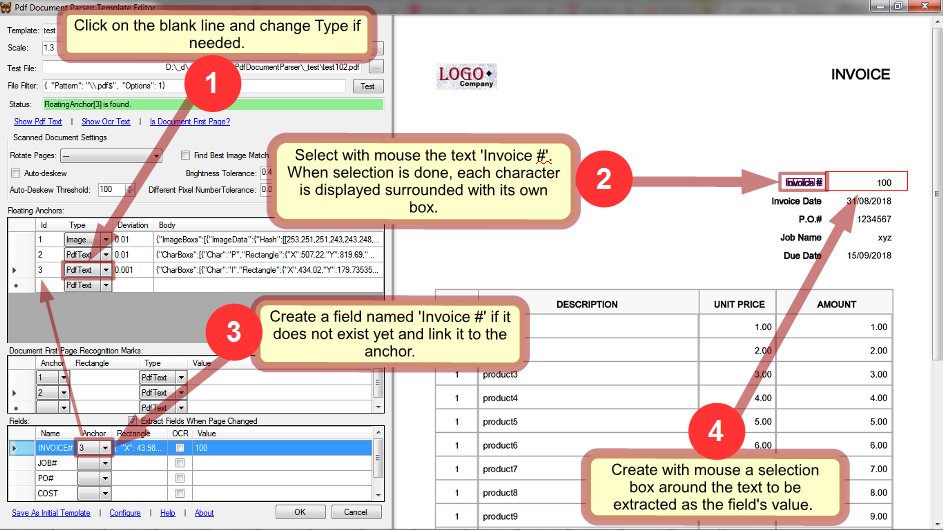
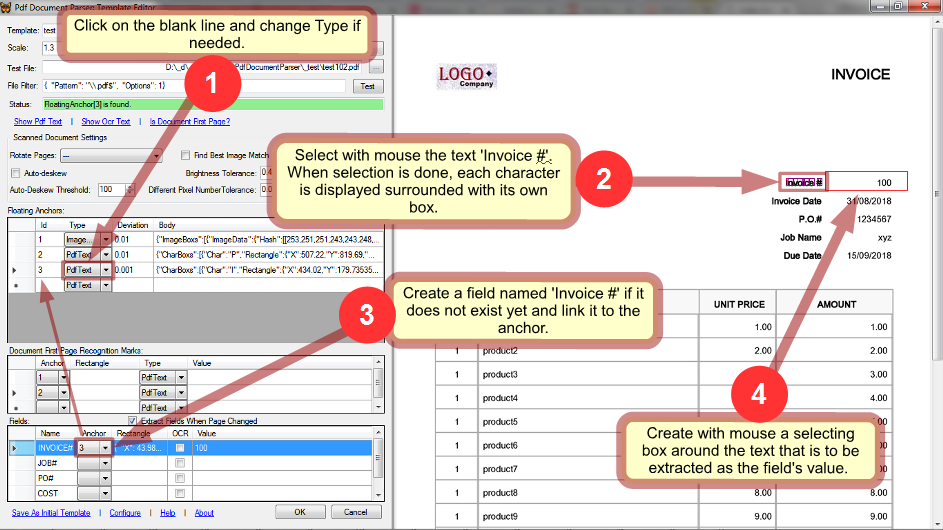
.

Changed region(s): [[0.123, 0.5132, 0.7073, 0.8453], [0.6151, 0.4226, 0.9533, 0.9962]]

diff --git a/help/help/tutorial/index.html b/help/help/tutorial/index.html
@@ -9,31 +9,31 @@
 <h1>Pdf Document Parser Tutorial: creating a parsing template</h1>
 <h2>1. Create a blank template</h2>
 <p>It can be created from scratch or copied from an existing one. Usually copying saves time because you can adapt existing settings instead of creating them. However, in this tutorial we'll see how to set up a template from scratch. So, let's remove all the anchors and marks if any. Assumed that in every template we need 4 fields INVOICE, JOB#, PO# and COST so we will not remove them.
-<p class='screenshot_title'>Open a test PDF file in the template editor and specify the template's name. As an example, we will parse a PDF consisting of 2 invoices.
+<p class='screenshot_title'>Open a test PDF file in the template editor and specify the template's name. As an example, we will parse a PDF consisting of 2 invoices:
 <img src='1.png'/>
 
 <h2>2. Create an invoice first page recognition marks</h2>
 <p>Any template needs at least one mark that will certainly identify type of document and distinguish it from the rest documents you may want to parse. Such a mark should be targeted to some fragment of a document that is unique to its type. Usually it is a logo of a company issued the document.
-<p class='screenshot_title'>To create such a mark, first we need to create an anchor that will capture the logo. Then we create a mark and link it to the anchor.
+<p class='screenshot_title'>To create such a mark, first we need to create an anchor that will capture the logo. Then we create a mark and link it to the anchor:
 <img src='2.png'/>
 <p>How do those anchor and mark work inside the parser? In every page Parser looks for the fragment defined by the anchor. Depending on its type it can be either PDF text, OCR'ed text, or image. Each of types is processed by its own very different way and so choosing the right type is crucial in successful and robust parsing. The logo in our example document is an image that is why we set anchor's type to ImageData. This means that Parser will look for the image we selected while creating the anchor. 
 <p>An anchor can be found anywhere on page. In general way, having an anchor found, Parser takes the selecting rectangle specified by a mark linked to this anchor and locates it relatively to the anchor's position in page. Then Parser compares a text surrounded by the rectangle with the text defined in the mark and when they are equal, the mark is considered found. 
 <p>But a mark does not obligatory have a selecting rectangle specified. In such a simpler case it is considered found just when its anchor found. It is the case in our example: Parser will look for the logo image and if found, it will choose this template for processing of the document.
-<br><br><p>Now, besides the first mark which is a must, a template usually needs one more mark that will check number of document page. It is necessary when parsing a multi-document PDF file. 
-<p class='screenshot_title'>So let's create a mark for the first page: when Parser finds it, all the previously found fields are recorded and reset.
+<br><br><p>Now, besides the first mark which is a must, a template usually needs one more mark that will check number of document page. It is necessary when parsing a multi-document PDF file: when Parser finds such a mark, all the previously found fields are recorded and reset.
+<p class='screenshot_title'>So let's create a first page recognition mark:
 <img src='3.png'/>
-<p>Now our template has 2 marks that can recognize the document and its first page. Sometimes more mark is required: for instance when we need to parse different type documents issued by the same company. In our example 2 marks are sufficient though. 
+<p>Our template has 2 marks that can recognize type and first page of document. Sometimes more mark is required: for instance when we need to parse different type documents issued by the same company. In our example 2 marks we created are sufficient though. 
 <p><span class='attention'>NOTE: </span>when you select a line in either table, Parser processes it on the current page and the result is displayed in the page viewer and in Status.
 
 <h2>3. Create fields</h2>
-<p class='screenshot_title'>Let's create fields. Click on the blank line and fill names if they are not preset. In the same way as above create anchors for the fields and link the fields to them.
+<p class='screenshot_title'>Let's create fields. Click on the blank line and fill names if they are not preset. In the same way as above create anchors for the fields and link the fields to them:
 <img src='4.png'/>
 <p>How does Parser process fields? The likeness between a field and a mark is that each has a selecting rectangle (well, a mark might not have but a field always does). And like with a mark, when a field's anchor is found, Parser locates the field's rectangle relatively to the anchor's position and extracts text surrounded by the rectangle. But further the difference between marks and fields comes out: while in a case of mark the captured text is compared with the mark's predefined text, in a case of field the captured text is recorded as a field value. 
 <p>And one more difference: while all the marks must be met on the same page, fields should not necessary do so. In every page Parser tries to capture all the fields and only the last captures are remembered and recorded when the end of PDF file or a new document is reached.
 <p><span class='attention'>NOTE: </span>the same anchor can be linked by multiple marks and fields.
 
 <h2>4. Walk though PDF and check how the template works on the rest pages</h2>
-<p>When all the fields are set, it's time to walk through the rest pages of the PDF file and see how the template we created works on them. 
+<p>When all the fields are set, it's time to walk through the rest pages of the PDF file and see how the template we created works on them.
 <p class='screenshot_title'>The page 2 is a new invoice and the marks in our template recognized it properly:
 <img src='5.png'/>
 <p class='screenshot_title'>The page 3 is an invoice continuation. On this page, Parser captured COST while remembering INVOCE, JOB# and PO# captured on the previous page: 

diff --git a/help/help/main.css b/help/help/main.css
@@ -8,7 +8,7 @@ p {
     margin-top:5
     padding1: 0;
 }
-img {max-width: 1200px; max-height: 700px; margin-top:20; margin-bottom:20}
+img {max-width: 1200px; max-height: 700px; margin-top:20; margin-bottom:30;display:block;}
 
 .footer {margin-top:auto;margin-bottom:auto;text-align:center;align-content:center;display:flex;justify-content:center;}
 .attention{font-style:italic;font-weight:bold;color1:#503;}

diff --git a/InvoiceParser/Program.cs b/InvoiceParser/Program.cs
@@ -12,7 +12,7 @@ using System.Windows.Forms;
 namespace Cliver.InvoiceParser
 {
     /*
- TBD:
+ TBD: 
 
  - ? Template not enherited but embedded
  - MainForm to WPF;
